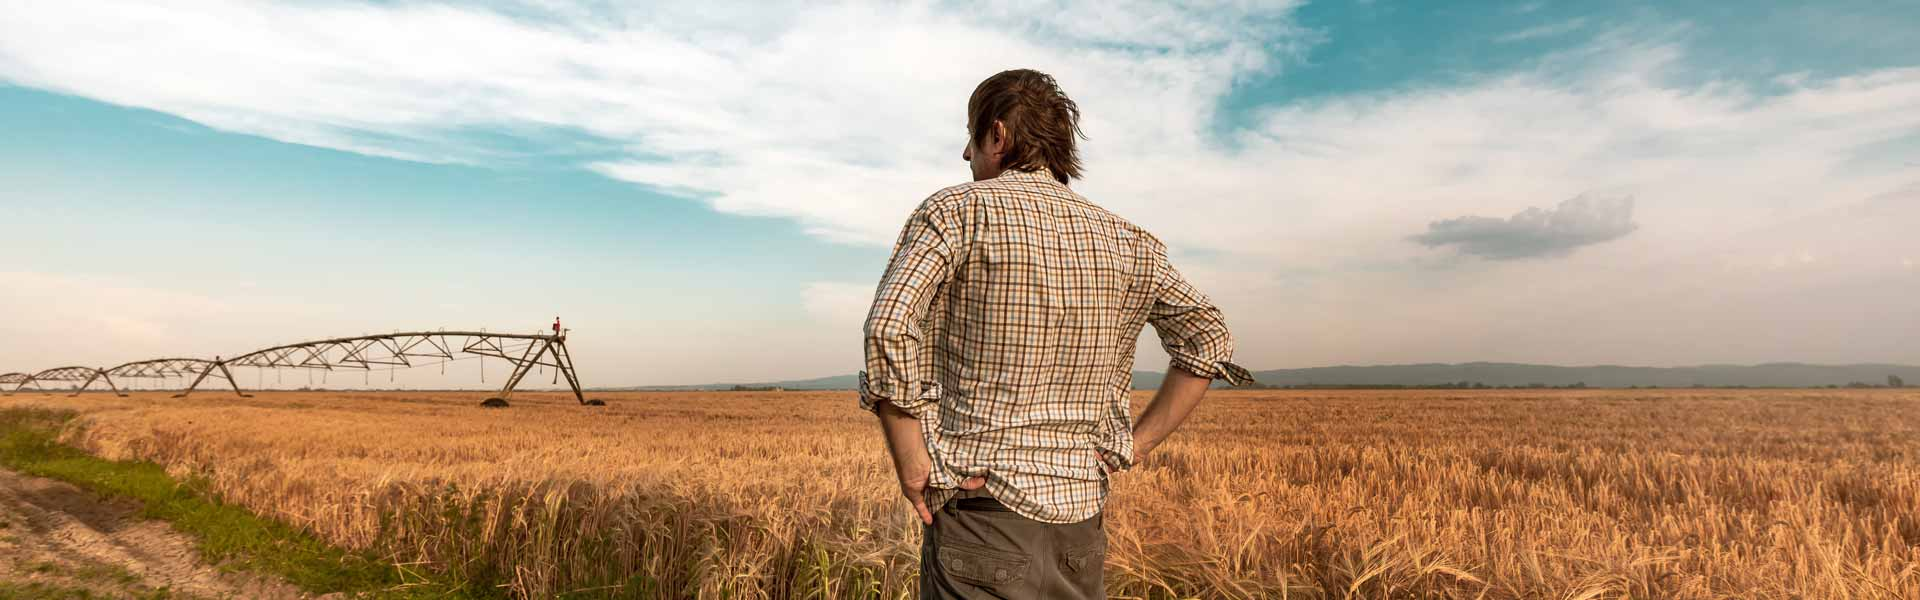
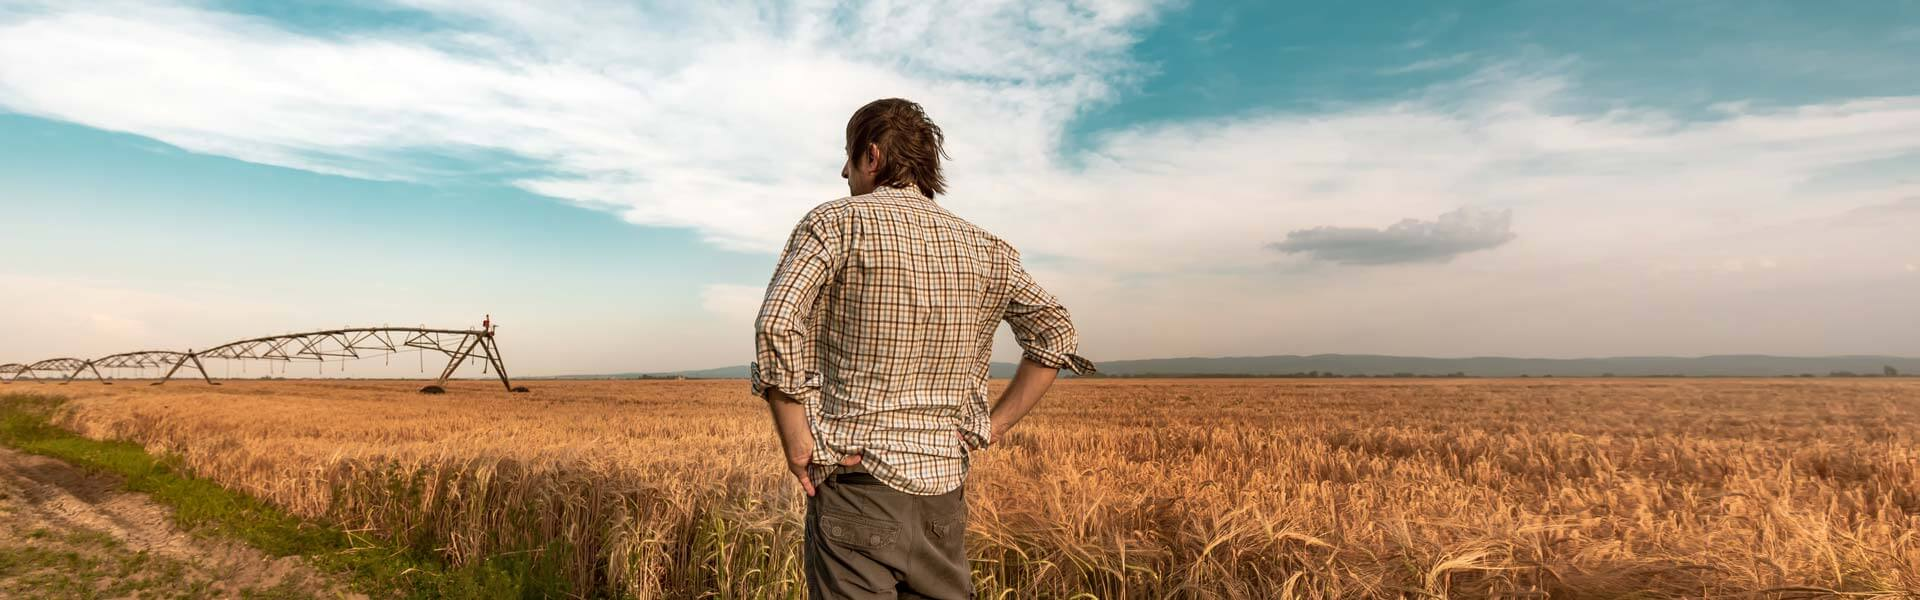
update image sized

diff --git a/assets/css/main.css b/assets/css/main.css
@@ -425,7 +425,7 @@ footer a:hover {
     height: 100vh;
     background-position: center center;
     background-size: cover;
-    background-image: url("../images/random/home.jpg");
+    background-image: url("../images/random/home-large.jpg");
     background-attachment: fixed;
 }
 

diff --git a/assets/css/responsive.css b/assets/css/responsive.css
@@ -271,9 +271,3 @@
 
 
 }
-
-@media screen and (max-width:400px) {
-    .section-landing {
-        background-image: url("../images/random/home-mobile.jpg");
-    }
-}
